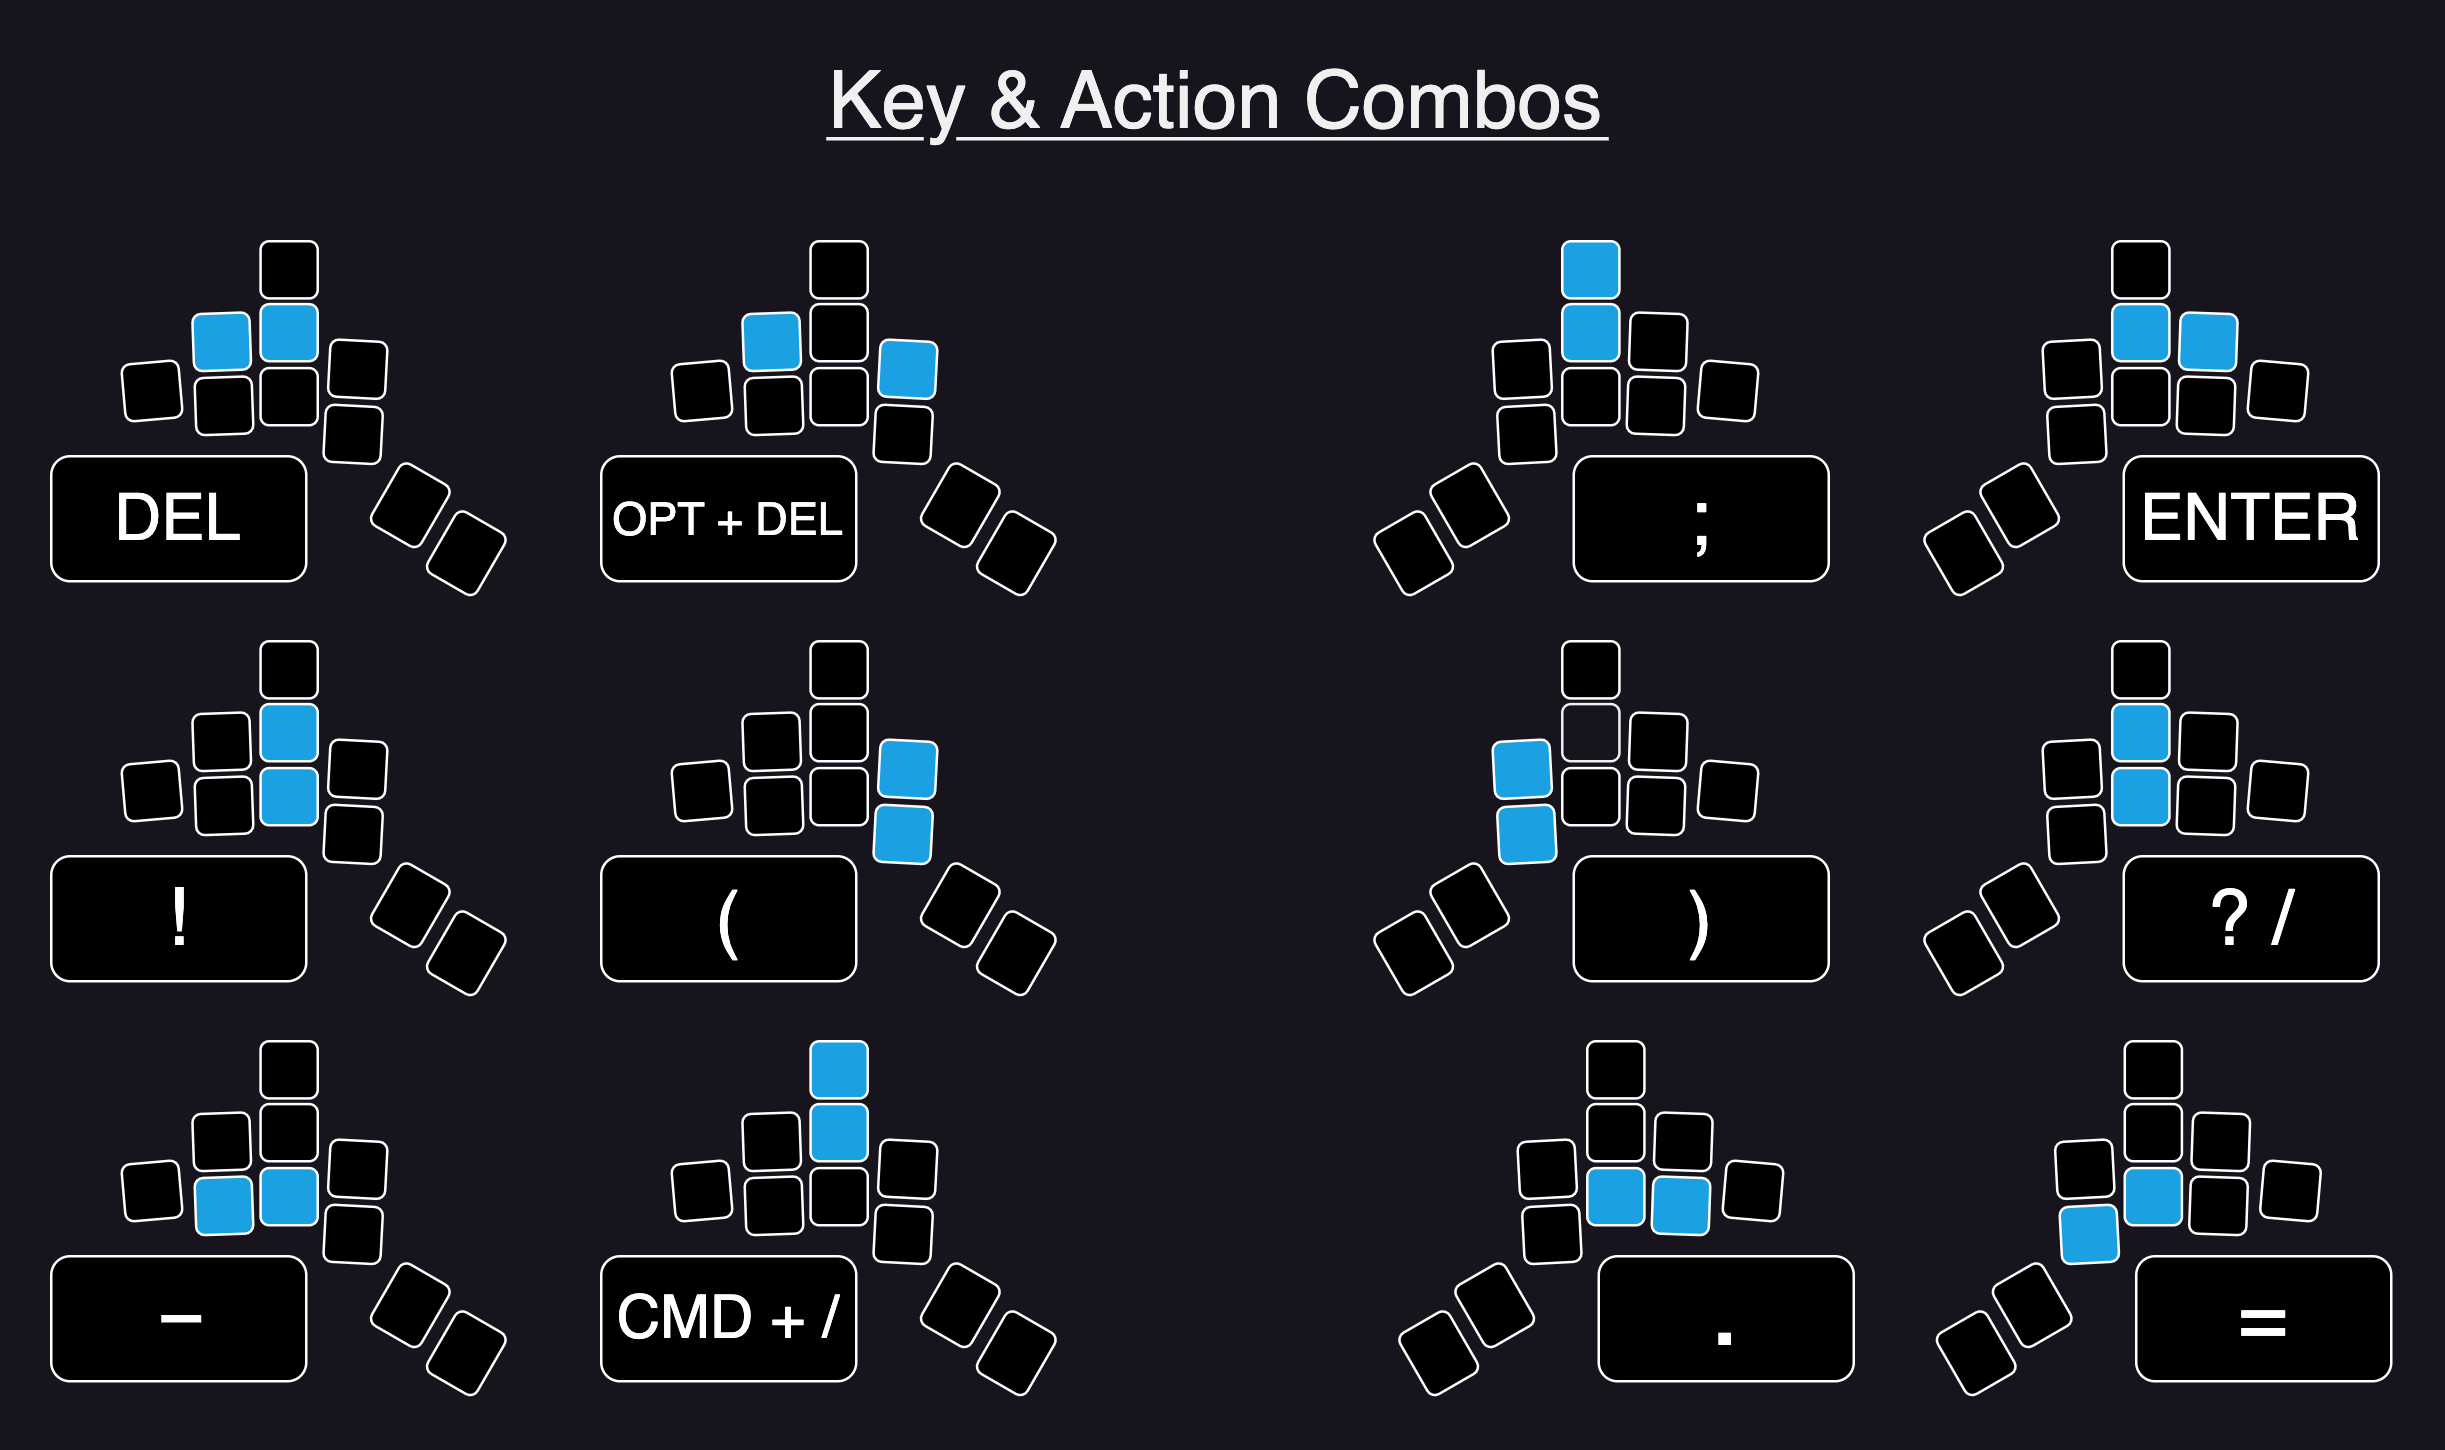
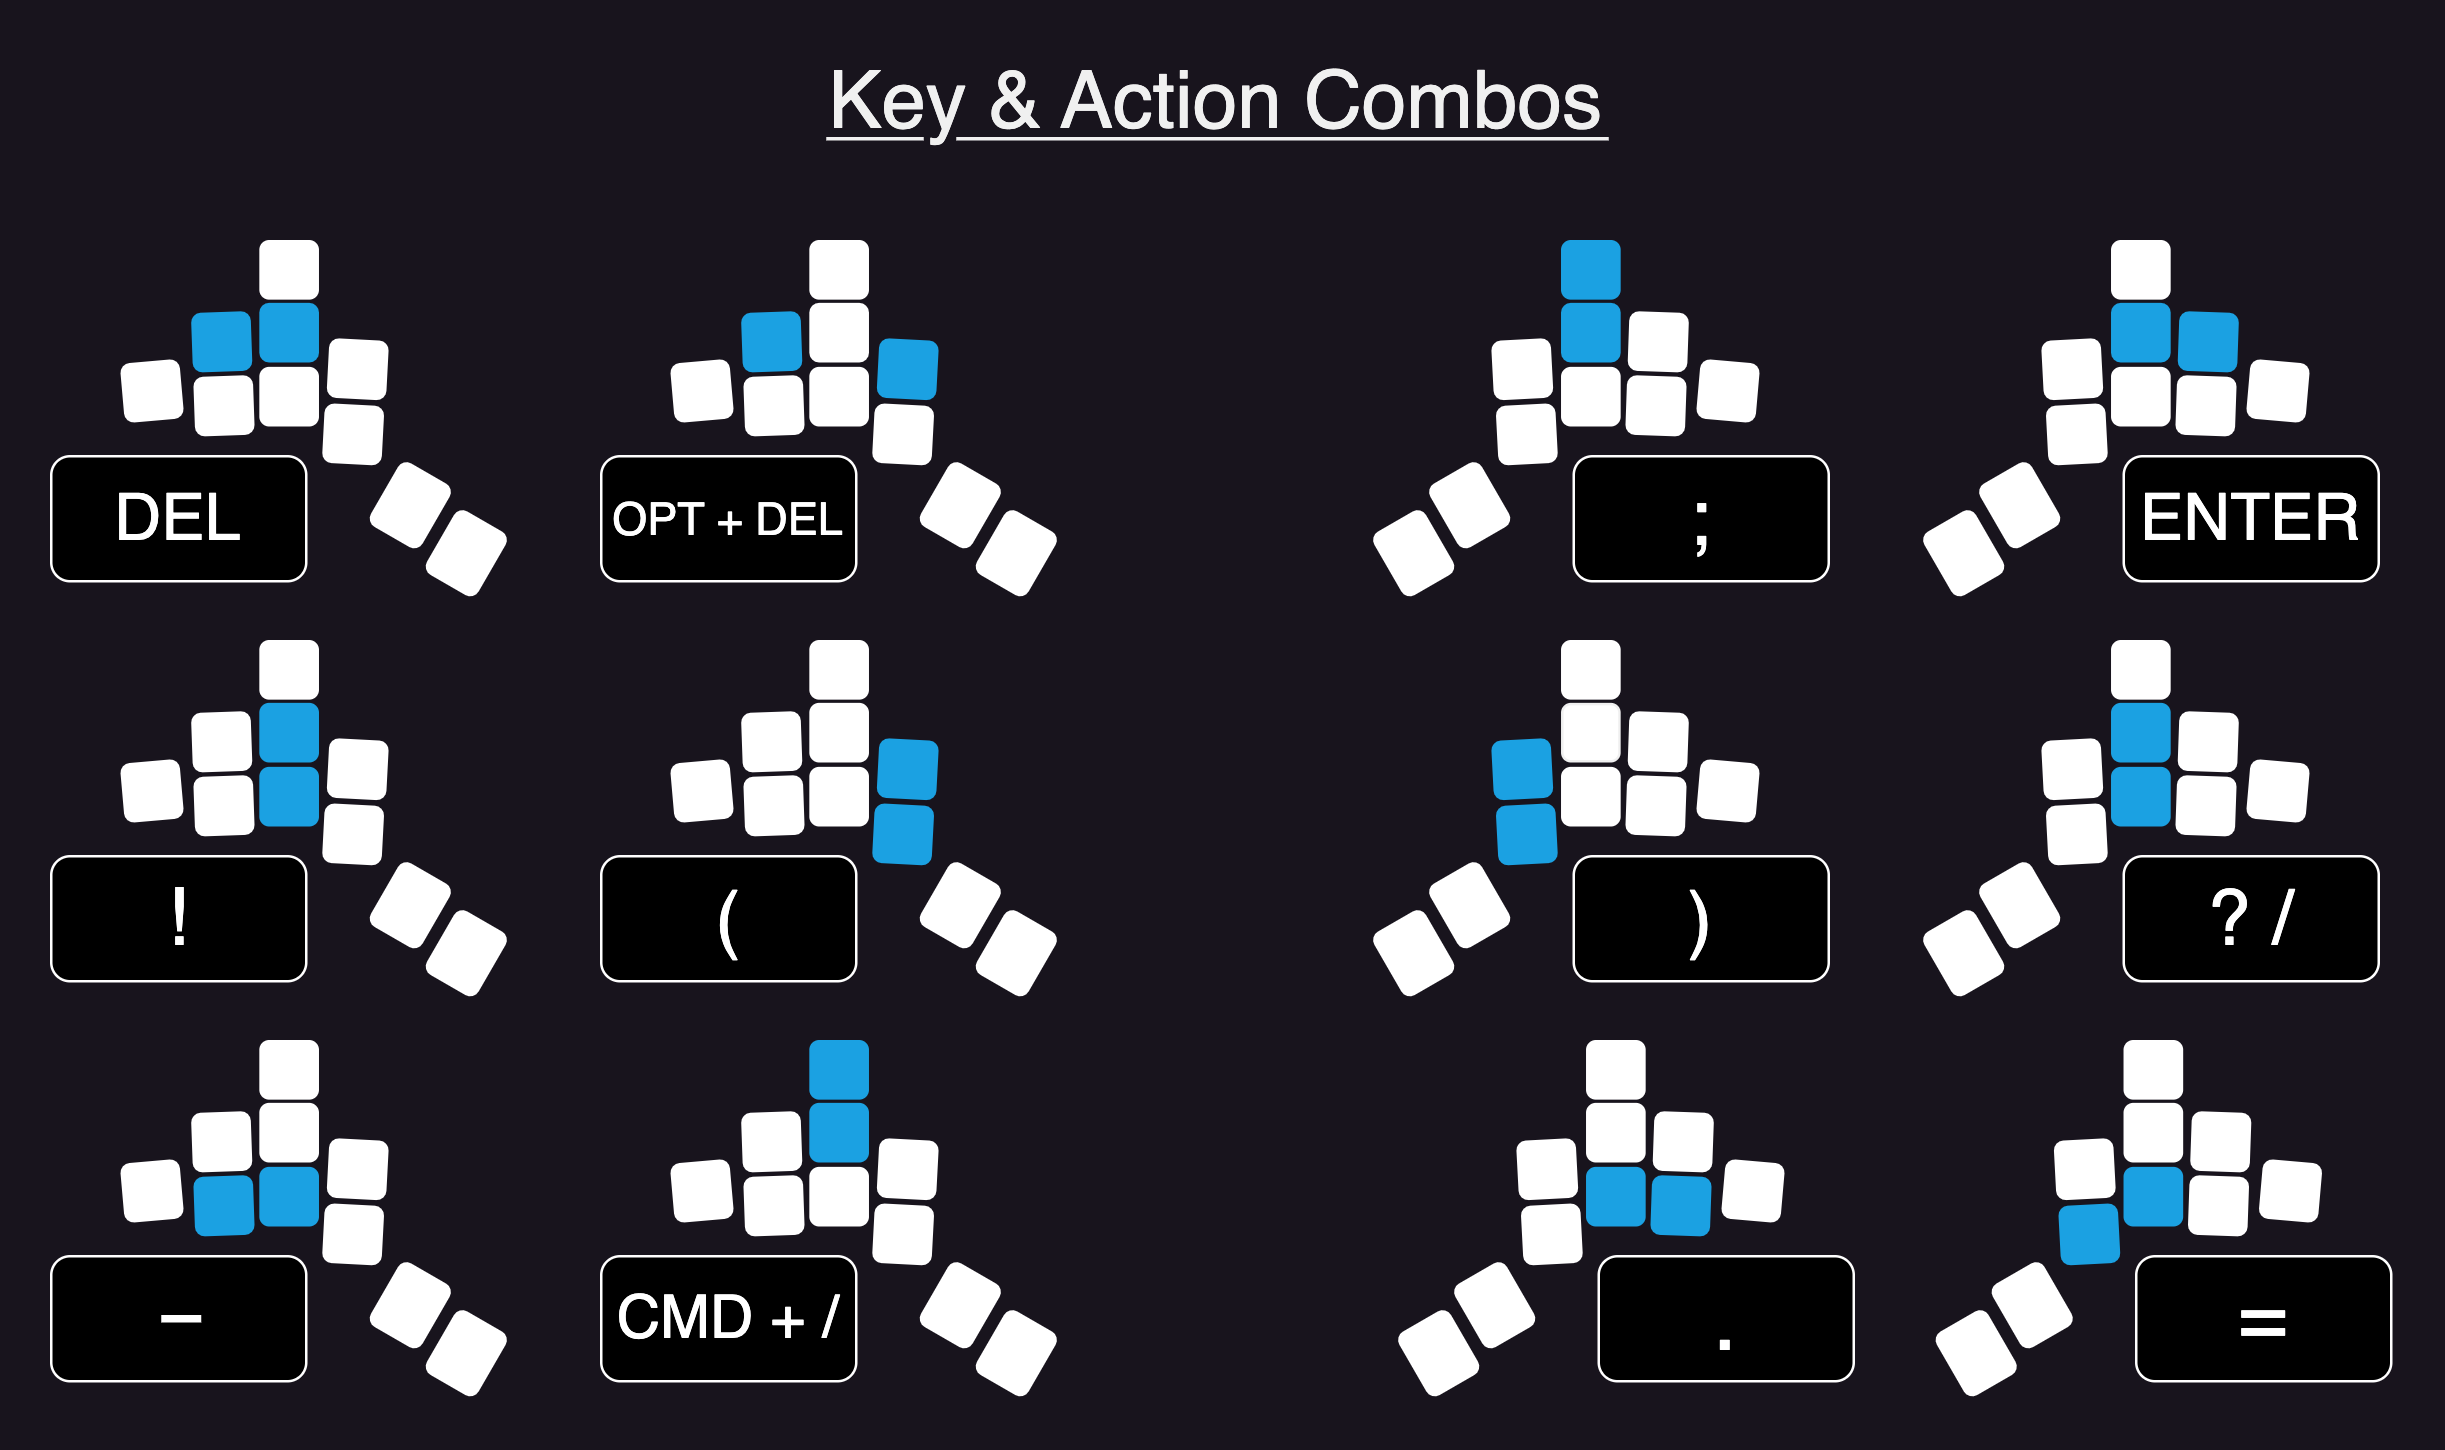
better combo map colors

diff --git a/README.md b/README.md
@@ -61,6 +61,15 @@ There is no precise place to glue this little platform. It is meant to have flex
 > 3. Besides "forward", they all handle Mod-Tap functionality very well, so consider assigning a "hold" key and a "tap" key for each direction
 > 4.  The first few times you use them, you may find it hard to not move the whole board around a bit when pressing certain directions. This will go away after a day or two of getting used to the movements.
 
+
+
+## Word Keys
+In addition to having combos for certain words, there are also a couple words that get their own dedicated keys in this layout. 
+
+We type the words "the" and "and" a lot. Even more-so when you count them when they appear as part of another word (*the*m, *the*y, or ano*the*r). So this keyboard just gives them their own keys. You will be surprised how much time this saves! Feel great and efficient to type with them. 
+
+The Word Keys are on the "alpha2" layer. You can see them all the layers in the keymap at the bottom of this page.
+
 ## Combos
 This keyboard uses a layout with a *significant* number of combos. You don't necessarily have to use as many as I do, but you are going to have to use some no matter what.
 
@@ -70,15 +79,9 @@ Here is a layout of most of the Key/Action Combos
 
 ![Key Combos Diagram](photos/key-combos.png)
 
+> **Note**
+> If you want to add more combos, you will have to delete some that are already there, as the firmware is really operating at it's limit right now.
 
-If you want to add more combos, you will have to delete some that are already there, as the firmware is basically operating at it's limit right now.
-
-## Word Keys
-In addition to having combos for certain words, there are also a couple words that get their own dedicated keys in this layout. 
-
-We type the words "the" and "and" a lot. Even more-so when you count them when they appear as part of another word (*the*m, *the*y, or ano*the*r). So this keyboard just gives them their own keys. You will be surprised how much time this saves! Feel great and efficient to type with them. 
-
-The Word Keys are on the "alpha2" layer. You can see them all the layers in the keymap at the bottom of this page.
 
 ## Optional key risers
 Most keys have optional risers to help them conform to the shape of your hand. Every non-thumb key gets them except the bottom two on the middle finger. The top middle finger key gets a slanted riser.  
